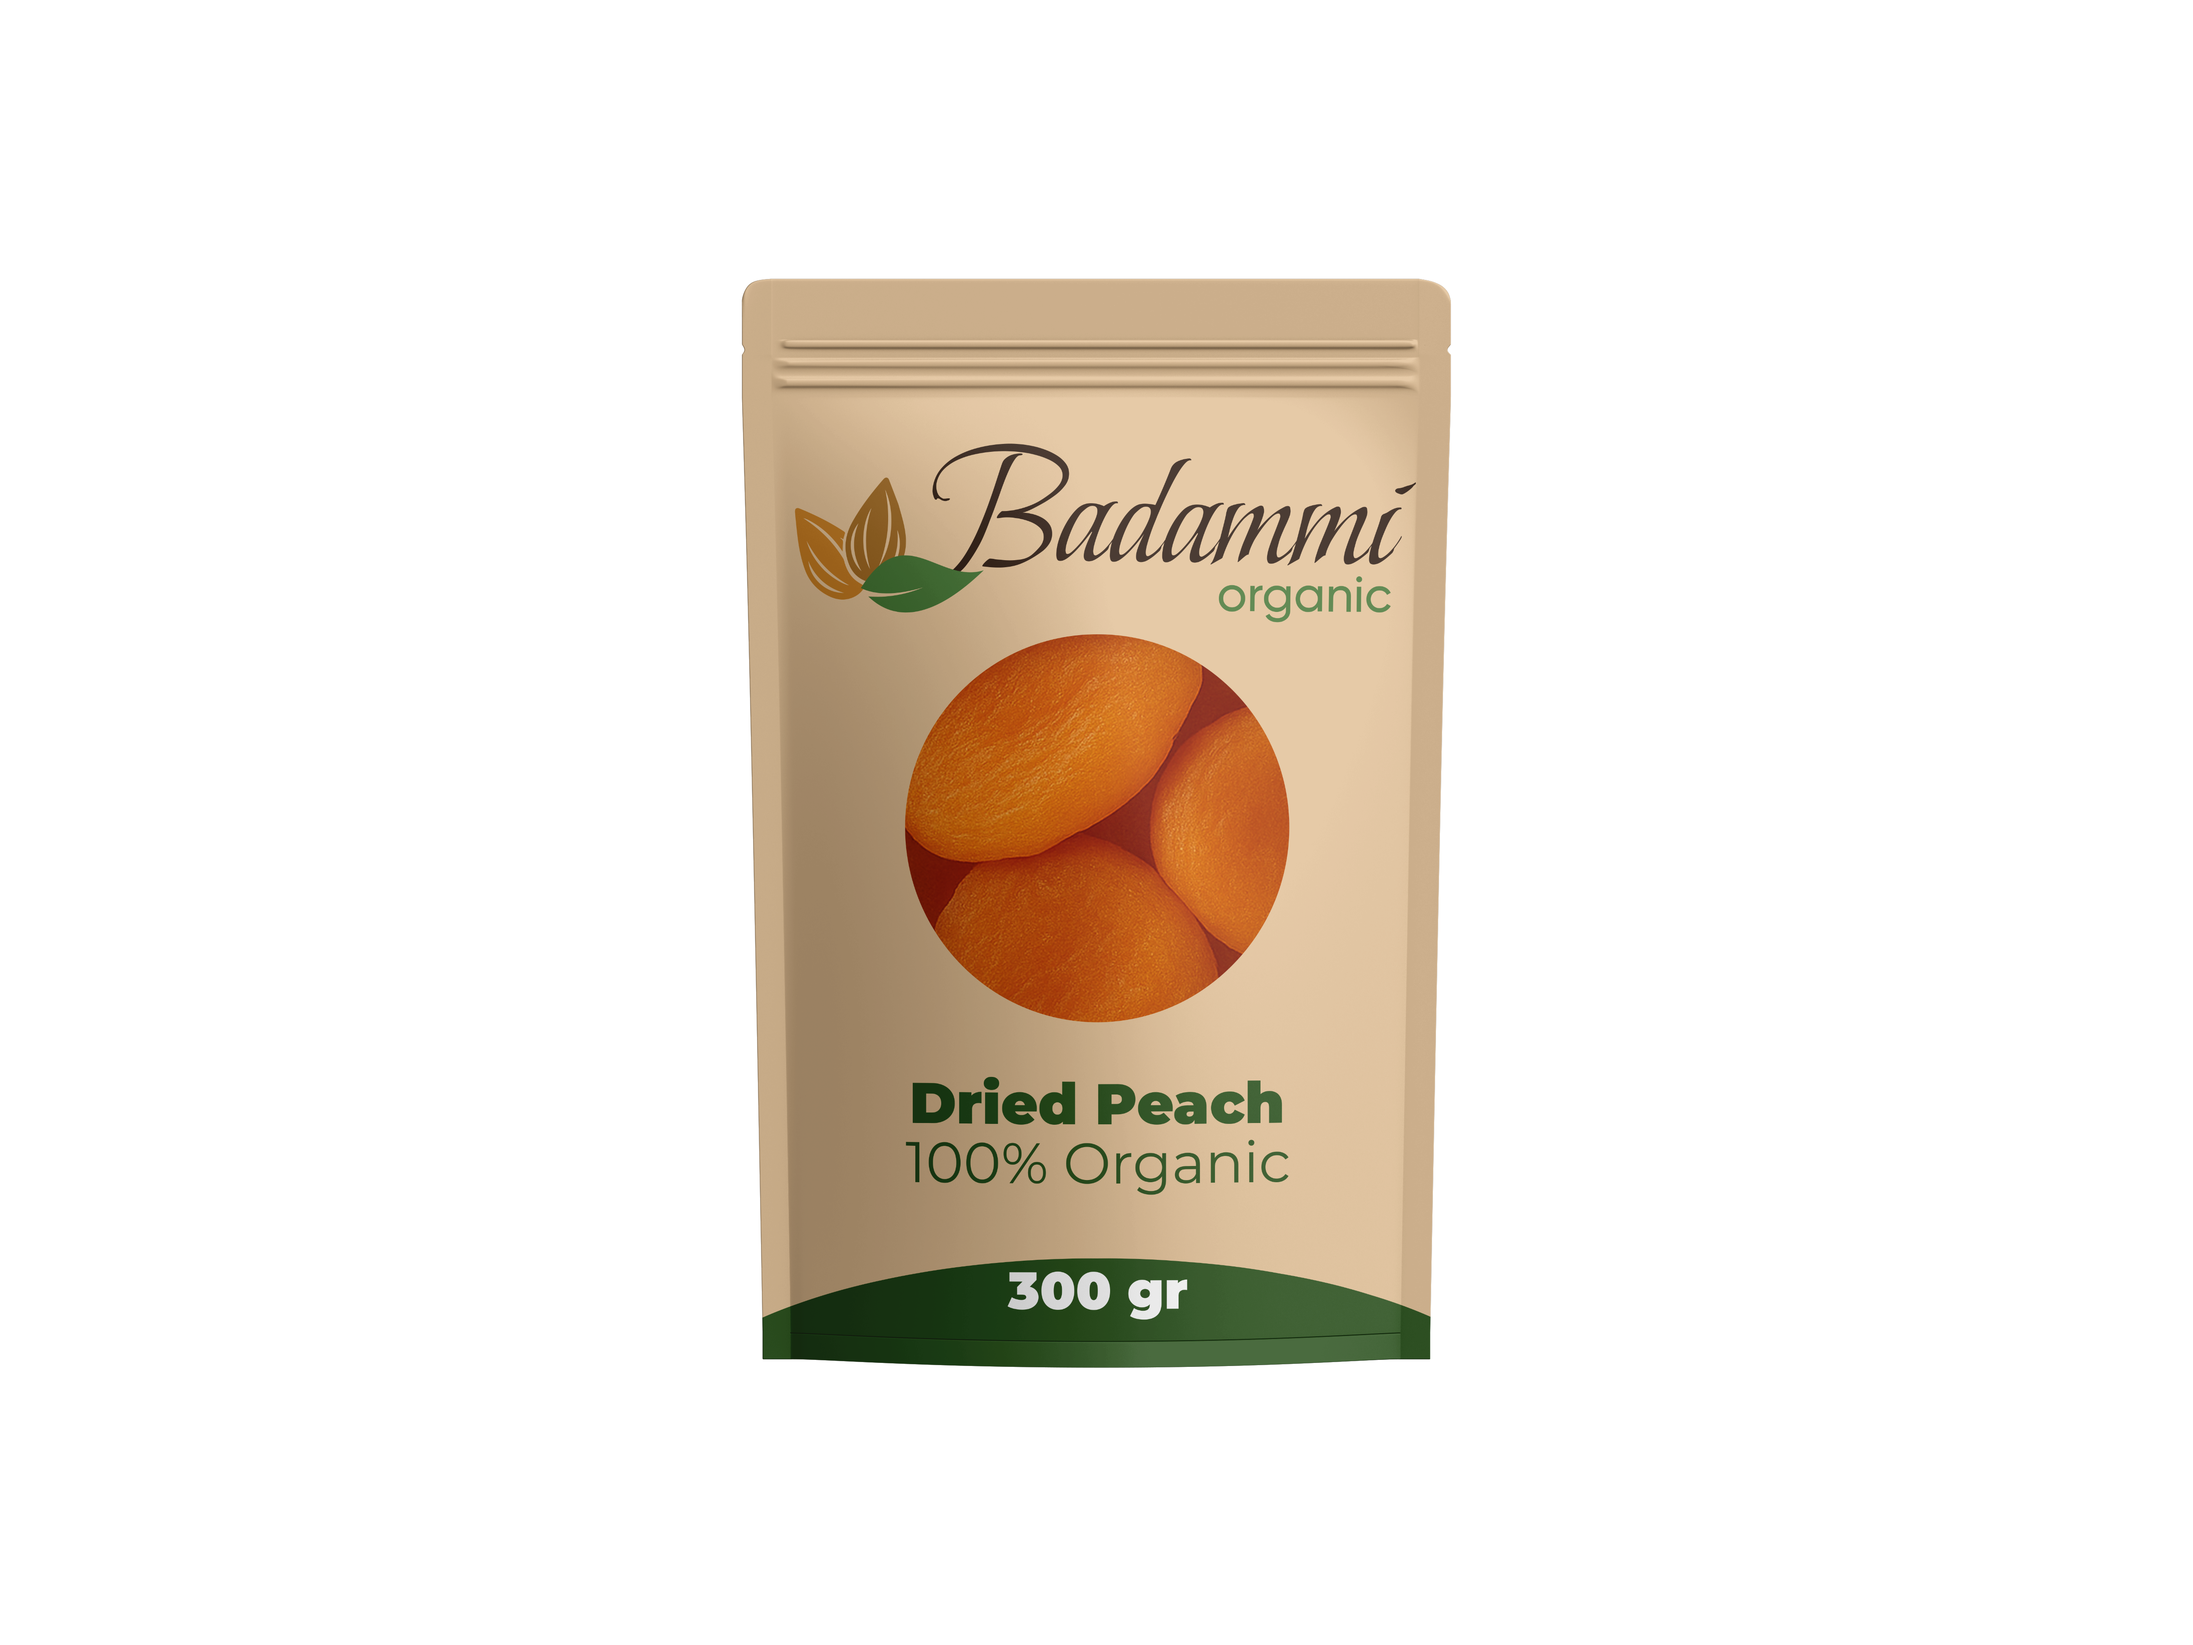
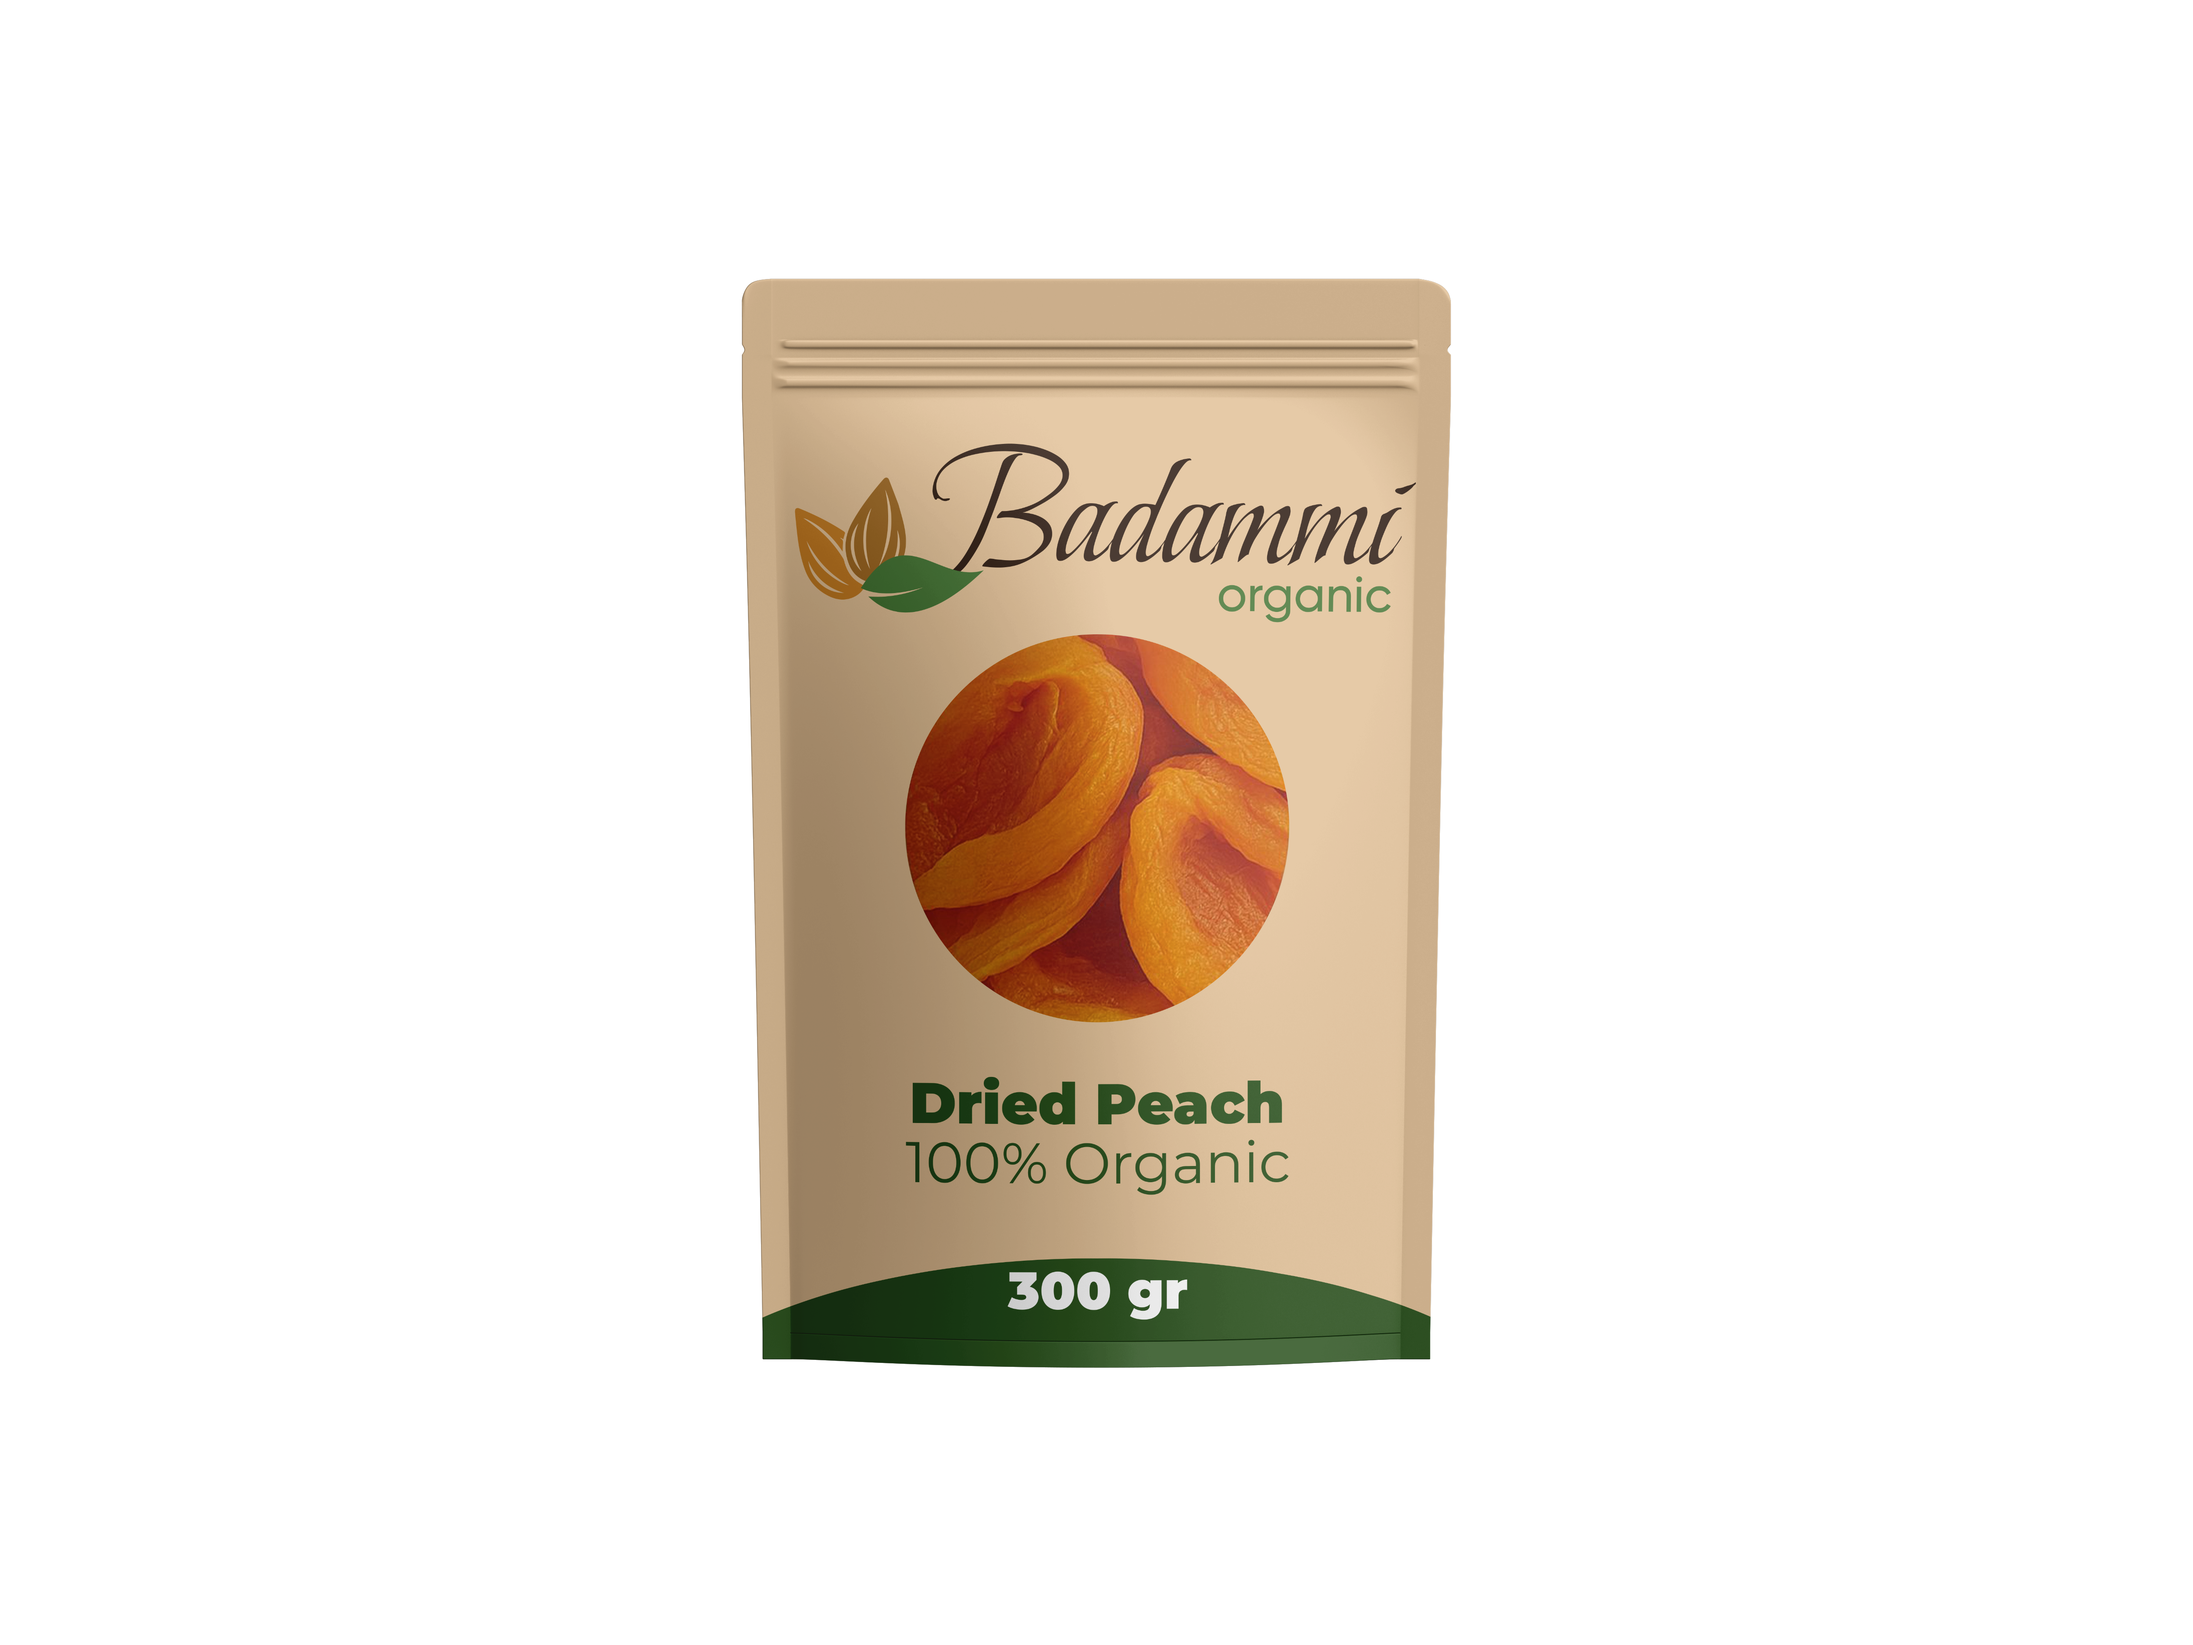
Change Photo and Fix

Changed region(s): [[0.4056, 0.3744, 0.5928, 0.624]]

diff --git a/Badammi/index.html b/Badammi/index.html
@@ -341,7 +341,7 @@
                                     <li> <a href="index.html"> All Producs </a> </li>
                                     <li>
                                         <div class="social-icons" style="margin-top: 15px;">
-                                            <a href="https://www.youtube.com/" target="_blank" style="margin-right: 10px; color: #ff0000;">
+                                            <a href="https://www.youtube.com/channel/UCfE7fAnO4T6iUG6tB07wfJw" target="_blank" style="margin-right: 10px; color: #ff0000;">
                                                 <i class="fab fa-youtube fa-lg"></i>
                                             </a>
                                         </div>
@@ -407,7 +407,7 @@ document.addEventListener("DOMContentLoaded", async () => {
             const driedFruits = fruits.filter(f => f.name.toLowerCase().includes("dried"));
             driedFruits.forEach(fruit => {
                 const li = document.createElement("li");
-                li.innerHTML = `<a class="fix-a" href="shop-single-dried.html?id=${fruit.id}">${fruit.name}</a>`;;
+                li.innerHTML = `<a class="fix-a" href="shop-single-dried.html?id=${fruit.id}">${fruit.name}</a>`;
                 driedMenu.appendChild(li);
             });
 
@@ -416,18 +416,53 @@ document.addEventListener("DOMContentLoaded", async () => {
             driedMenu.appendChild(allLi);
         }
 
-        // === FRESH PRODUCTS ===
+        // === FRESH PRODUCTS — 2 СЕКЦИИ ===
         const freshMenu = document.getElementById("fresh");
         if (freshMenu) {
             freshMenu.innerHTML = "";
 
-            const freshFruits = fruits.filter(f => !f.name.toLowerCase().includes("dried"));
-            freshFruits.forEach(fruit => {
+            // список овощей
+            const vegetables = ["lemon", "cucumber", "tomato"];
+
+            // секция фруктов
+            const freshFruitList = fruits.filter(f =>
+                !f.name.toLowerCase().includes("dried") &&
+                !vegetables.includes(f.name.toLowerCase())
+            );
+
+            // секция овощей
+            const freshVegetableList = fruits.filter(f =>
+                vegetables.includes(f.name.toLowerCase())
+            );
+
+            // ---------- FRESH FRUITS ----------
+            const fruitsHeader = document.createElement("li");
+            fruitsHeader.innerHTML = `<strong style="padding-left:10px;">Fresh Fruits</strong>`;
+            freshMenu.appendChild(fruitsHeader);
+
+            freshFruitList.forEach(fruit => {
                 const li = document.createElement("li");
                 li.innerHTML = `<a class="fix-a" href="shop-single.html?id=${fruit.id}">${fruit.name}</a>`;
                 freshMenu.appendChild(li);
             });
 
+            // Разделитель
+            const divider = document.createElement("li");
+            divider.innerHTML = `<hr>`;
+            freshMenu.appendChild(divider);
+
+            // ---------- FRESH VEGETABLES ----------
+            const vegHeader = document.createElement("li");
+            vegHeader.innerHTML = `<strong style="padding-left:10px;">Fresh Vegetables</strong>`;
+            freshMenu.appendChild(vegHeader);
+
+            freshVegetableList.forEach(fruit => {
+                const li = document.createElement("li");
+                li.innerHTML = `<a class="fix-a" href="shop-single.html?id=${fruit.id}">${fruit.name}</a>`;
+                freshMenu.appendChild(li);
+            });
+
+            // Общий каталог
             const allFreshLi = document.createElement("li");
             allFreshLi.innerHTML = `<a class="fix-a" href="shop-1.html"><strong>All catalog</strong></a>`;
             freshMenu.appendChild(allFreshLi);

diff --git a/Badammi/shop-single-dried.html b/Badammi/shop-single-dried.html
@@ -177,7 +177,7 @@
                                     <li> <a href="index.html"> All Producs </a> </li>
                                     <li>
                                         <div class="social-icons" style="margin-top: 15px;">
-                                            <a href="https://www.youtube.com/" target="_blank" style="margin-right: 10px; color: #ff0000;">
+                                            <a href="https://www.youtube.com/channel/UCfE7fAnO4T6iUG6tB07wfJw" target="_blank" style="margin-right: 10px; color: #ff0000;">
                                                 <i class="fab fa-youtube fa-lg"></i>
                                             </a>
                                         </div>
@@ -406,6 +406,18 @@ $(document).ready(function() {
 </style>
 
 <style>
+#listproduct .deal-text p {
+    height: 60px;
+    overflow: hidden;
+    display: -webkit-box;
+    -webkit-line-clamp: 2;       /* ← исправлено! раньше было -webkit-line-break */
+    -webkit-box-orient: vertical;
+    text-overflow: ellipsis;
+    line-height: 1.4em;
+    font-size: 14px;
+    color: #555;
+}
+
 .product-layout {
     display: flex;
     align-items: flex-start;

diff --git a/Badammi/about-us.html b/Badammi/about-us.html
@@ -265,7 +265,7 @@
                                     <li> <a href="index.html"> All Producs </a> </li>
                                     <li>
                                         <div class="social-icons" style="margin-top: 15px;">
-                                            <a href="https://www.youtube.com/" target="_blank" style="margin-right: 10px; color: #ff0000;">
+                                            <a href="https://www.youtube.com/channel/UCfE7fAnO4T6iUG6tB07wfJw" target="_blank" style="margin-right: 10px; color: #ff0000;">
                                                 <i class="fab fa-youtube fa-lg"></i>
                                             </a>
                                         </div>

diff --git a/Badammi/contact.html b/Badammi/contact.html
@@ -175,7 +175,7 @@
                                     <li> <a href="index.html"> All Producs </a> </li>
                                     <li>
                                         <div class="social-icons" style="margin-top: 15px;">
-                                            <a href="https://www.youtube.com/" target="_blank" style="margin-right: 10px; color: #ff0000;">
+                                            <a href="https://www.youtube.com/channel/UCfE7fAnO4T6iUG6tB07wfJw" target="_blank" style="margin-right: 10px; color: #ff0000;">
                                                 <i class="fab fa-youtube fa-lg"></i>
                                             </a>
                                         </div>

diff --git a/Badammi/shop-1.html b/Badammi/shop-1.html
@@ -161,7 +161,7 @@
                                     <li> <a href="index.html"> All Producs </a> </li>
                                     <li>
                                         <div class="social-icons" style="margin-top: 15px;">
-                                            <a href="https://www.youtube.com/" target="_blank" style="margin-right: 10px; color: #ff0000;">
+                                            <a href="https://www.youtube.com/channel/UCfE7fAnO4T6iUG6tB07wfJw" target="_blank" style="margin-right: 10px; color: #ff0000;">
                                                 <i class="fab fa-youtube fa-lg"></i>
                                             </a>
                                         </div>

diff --git a/Badammi/shop-2.html b/Badammi/shop-2.html
@@ -160,7 +160,7 @@
                                     <li> <a href="index.html"> All Producs </a> </li>
                                     <li>
                                         <div class="social-icons" style="margin-top: 15px;">
-                                            <a href="https://www.youtube.com/" target="_blank" style="margin-right: 10px; color: #ff0000;">
+                                            <a href="https://www.youtube.com/channel/UCfE7fAnO4T6iUG6tB07wfJw" target="_blank" style="margin-right: 10px; color: #ff0000;">
                                                 <i class="fab fa-youtube fa-lg"></i>
                                             </a>
                                         </div>

diff --git a/Badammi/shop-single.html b/Badammi/shop-single.html
@@ -188,7 +188,7 @@
                                     <li> <a href="index.html"> All Producs </a> </li>
                                     <li>
                                         <div class="social-icons" style="margin-top: 15px;">
-                                            <a href="https://www.youtube.com/" target="_blank" style="margin-right: 10px; color: #ff0000;">
+                                            <a href="https://www.youtube.com/channel/UCfE7fAnO4T6iUG6tB07wfJw" target="_blank" style="margin-right: 10px; color: #ff0000;">
                                                 <i class="fab fa-youtube fa-lg"></i>
                                             </a>
                                         </div>

diff --git a/Badammi/shop.html b/Badammi/shop.html
@@ -161,7 +161,7 @@
                                     <li> <a href="index.html"> All Producs </a> </li>
                                     <li>
                                         <div class="social-icons" style="margin-top: 15px;">
-                                            <a href="https://www.youtube.com/" target="_blank" style="margin-right: 10px; color: #ff0000;">
+                                            <a href="https://www.youtube.com/channel/UCfE7fAnO4T6iUG6tB07wfJw" target="_blank" style="margin-right: 10px; color: #ff0000;">
                                                 <i class="fab fa-youtube fa-lg"></i>
                                             </a>
                                         </div>

diff --git a/BadammiAPI/obj/Debug/net9.0/BadammiAPI.AssemblyInfo.cs b/BadammiAPI/obj/Debug/net9.0/BadammiAPI.AssemblyInfo.cs
@@ -14,7 +14,7 @@ using System.Reflection;
 [assembly: System.Reflection.AssemblyCompanyAttribute("BadammiAPI")]
 [assembly: System.Reflection.AssemblyConfigurationAttribute("Debug")]
 [assembly: System.Reflection.AssemblyFileVersionAttribute("1.0.0.0")]
-[assembly: System.Reflection.AssemblyInformationalVersionAttribute("1.0.0+6732a1341564d015e400bee28899731481adf6a0")]
+[assembly: System.Reflection.AssemblyInformationalVersionAttribute("1.0.0+a117325f120096d3a64c8bcc72e2aa1a3ef1ab93")]
 [assembly: System.Reflection.AssemblyProductAttribute("BadammiAPI")]
 [assembly: System.Reflection.AssemblyTitleAttribute("BadammiAPI")]
 [assembly: System.Reflection.AssemblyVersionAttribute("1.0.0.0")]
